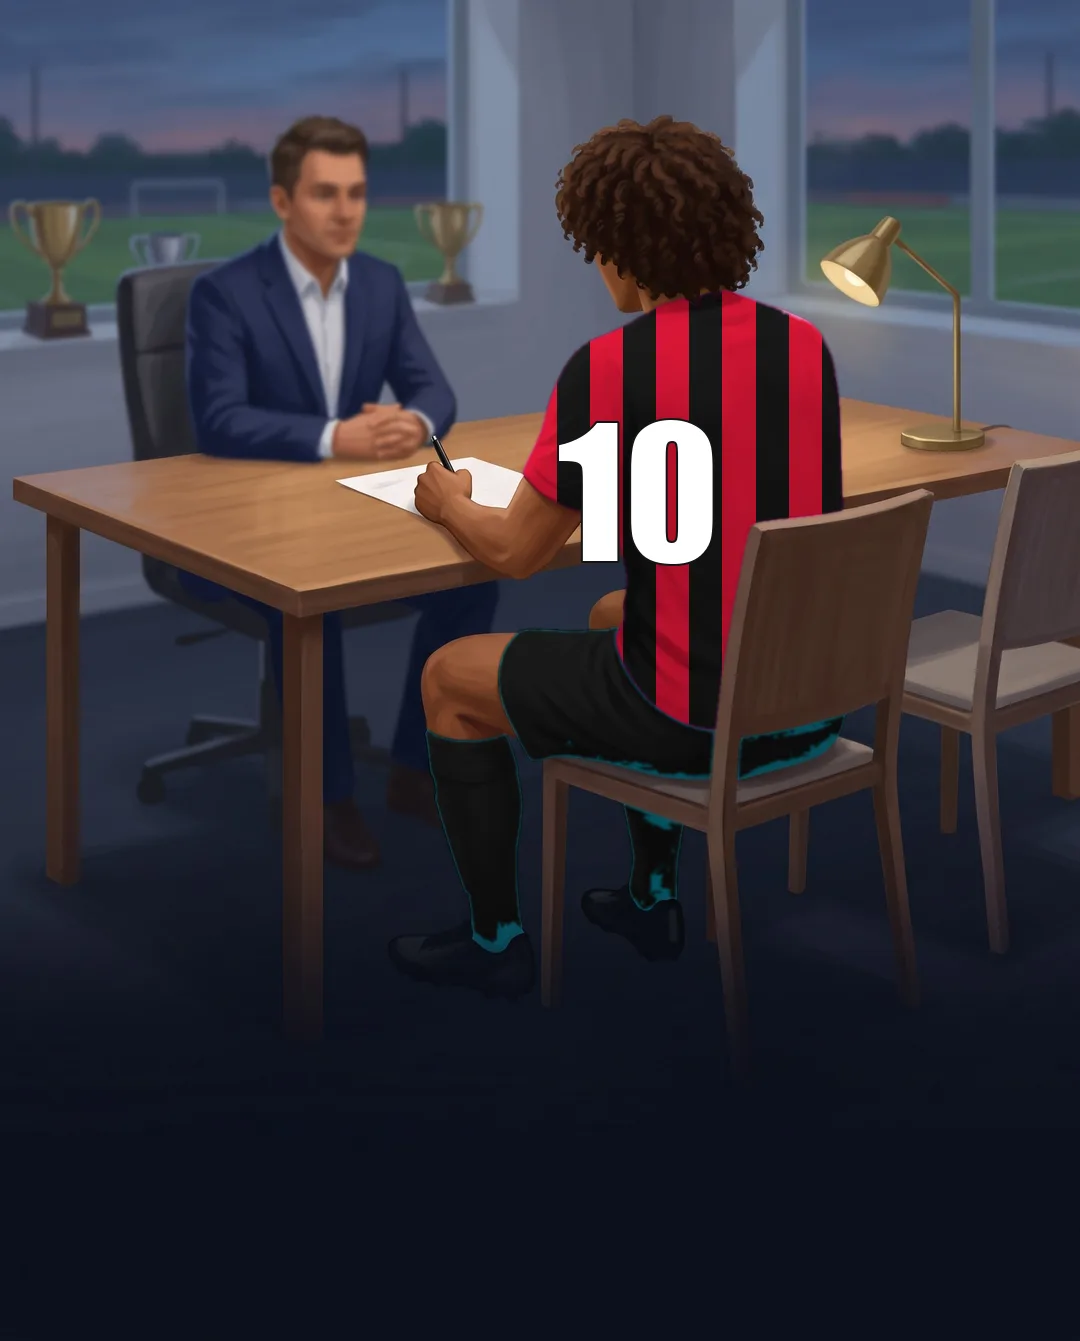
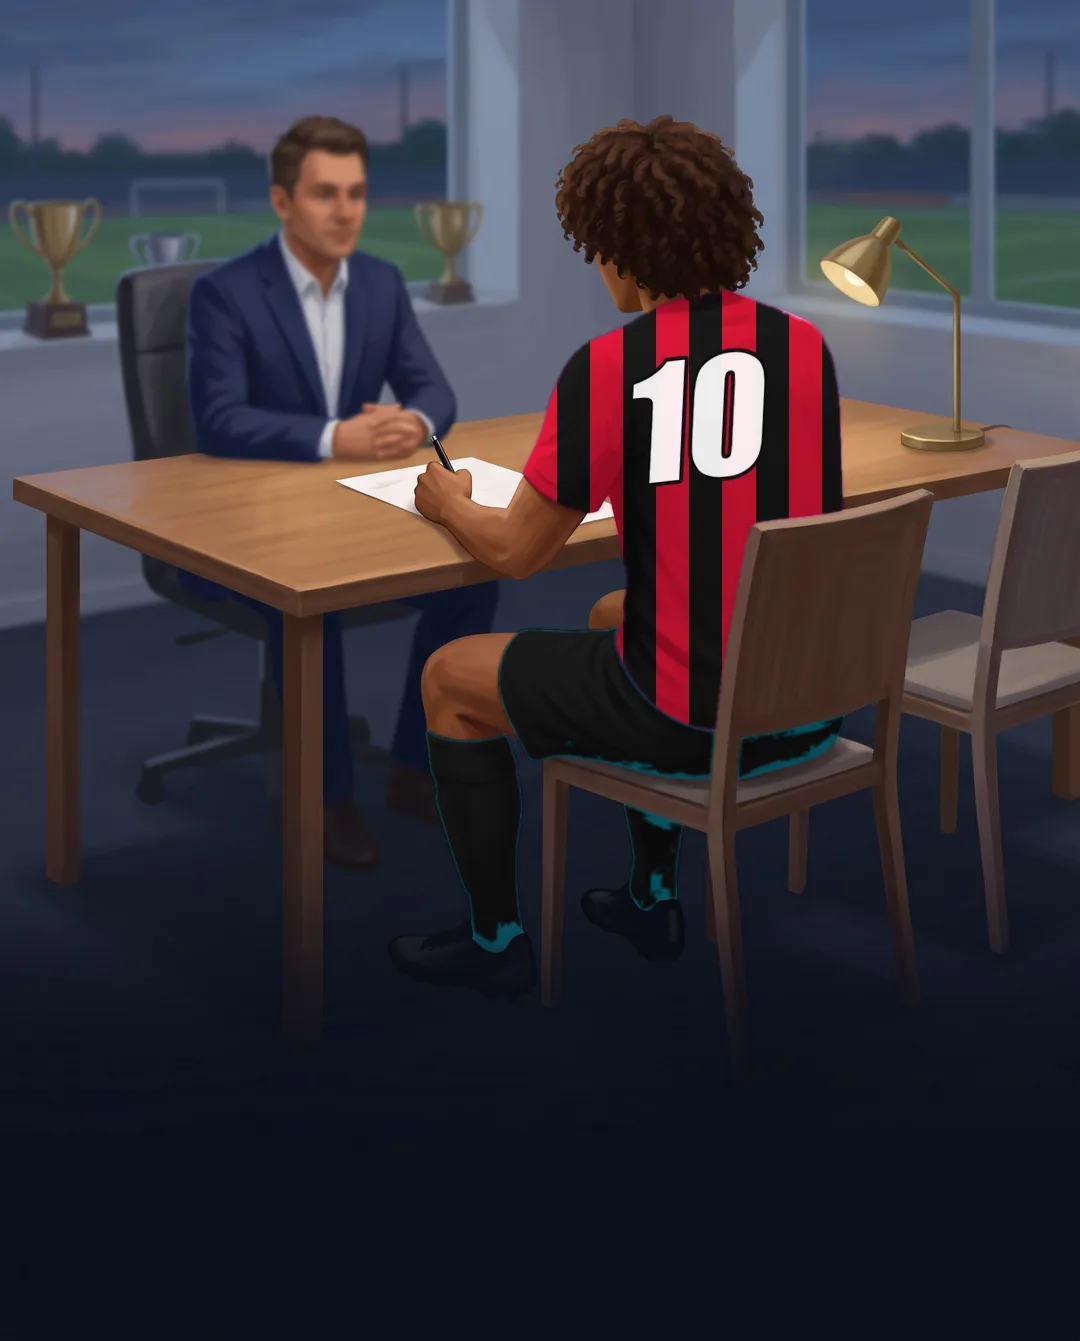
feat(T49): overall em número, mini troféus por título e número da camisa reposicionado
Terceira revisão do usuário (SPEC v2.16). O overall geral passa a aparecer
em número na tela de decisão, como exceção registrada à regra de não mostrar
números; os 10 atributos seguem em faixas e estrelas.

Changed region(s): [[0.5194, 0.2446, 0.7333, 0.428]]

diff --git a/src/ui/screens/Decision.tsx b/src/ui/screens/Decision.tsx
@@ -1,12 +1,12 @@
 import { useState } from 'react';
 import events from '../../data/events.json';
 import legacy from '../../data/legacy.json';
-import { toBand } from '../../engine/attributes';
 import { CLUBS } from '../../engine/clubs';
 import { temperamentsFor } from '../../engine/events';
 import { previewOf, type Preview } from '../../engine/preview';
 import { t } from '../../i18n';
 import creation from '../../i18n/pt-BR/creation.json';
+import tokens from '../theme/tokens.json';
 import './Decision.css';
 
 // T49 (amostra aprovada) e T51: uma decisão por tela, com a cena ao fundo. Só faixas e setas, nunca números de atributo.
@@ -16,7 +16,7 @@ export interface DecisionProps {
   /** Fração da carreira já vivida, de 0 a 1. */
   progress: number;
   scene: { src: string; alt: string };
-  /** Quem decide: o nível entra como número, mas só estrelas e faixa vão para a tela (SPEC: nenhum número de atributo antes do cartão). */
+  /** Quem decide. O overall aparece em número (SPEC v2.16); os atributos, um a um, seguem só em faixas e estrelas. */
   player: { name: string; position: string; clubId: string; overall: number; titles: string[] };
   /** Temperamento do jogador: a opção que combina com ele é marcada como "Seu jeito". */
   temperament?: string;
@@ -39,29 +39,15 @@ function Arrows({ sentido, intensidade }: Pick<Preview, 'sentido' | 'intensidade
   );
 }
 
-const STAR = 'M8 .8 10.2 5.6l5.2.6-3.9 3.6 1.1 5.2L8 12.4 3.4 15l1.1-5.2L.6 6.2l5.2-.6z';
 const TITLE_WEIGHT = legacy.titulos.pontos as Record<string, number>;
 const clubOf = (id: string) => CLUBS.find((c) => c.id === id);
+const metalOf = (id: string) => ((TITLE_WEIGHT[id] ?? 0) >= tokens.trofeu.ouroMin ? 'ouro' : (TITLE_WEIGHT[id] ?? 0) >= tokens.trofeu.prataMin ? 'prata' : 'bronze');
 
-/** Títulos agrupados por competição, da mais pesada para a mais leve: as três primeiras aparecem, o resto vira contagem. */
+/** Títulos agrupados por competição, da mais pesada para a mais leve. */
 function rankTitles(titles: string[]) {
   const counts: Record<string, number> = {};
   for (const id of titles) counts[id] = (counts[id] ?? 0) + 1;
-  const ranked = Object.entries(counts).sort((a, b) => (TITLE_WEIGHT[b[0]] ?? 0) - (TITLE_WEIGHT[a[0]] ?? 0));
-  return { shown: ranked.slice(0, 3), hidden: ranked.slice(3).reduce((n, [, c]) => n + c, 0) };
-}
-
-function Stars({ value, label }: { value: number; label: string }) {
-  return (
-    <span className="estrelas" role="img" aria-label={label}>
-      {[0, 1, 2, 3, 4].map((i) => (
-        <svg key={i} viewBox="0 0 16 16" width="16" height="16" focusable="false">
-          <path d={STAR} className="estrelas__vazia" />
-          <path d={STAR} className="estrelas__cheia" style={{ clipPath: `inset(0 ${100 - Math.min(1, Math.max(0, value - i)) * 100}% 0 0)` }} />
-        </svg>
-      ))}
-    </span>
-  );
+  return Object.entries(counts).sort((a, b) => (TITLE_WEIGHT[b[0]] ?? 0) - (TITLE_WEIGHT[a[0]] ?? 0));
 }
 
 /** Escudo estilizado: só as duas cores e a sigla do clube, nunca o escudo oficial (SPEC 11). */
@@ -78,22 +64,28 @@ function Crest({ clubId }: { clubId: string }) {
   );
 }
 
+/** Um mini troféu por competição vencida; o balão só aparece quando há mais de um título dela. */
 function Trophies({ titles }: { titles: string[] }) {
-  const { shown, hidden } = rankTitles(titles);
+  const ranked = rankTitles(titles);
+  if (!ranked.length) return null;
   return (
-    <p className="trofeus">
-      <svg viewBox="0 0 18 18" width="18" height="18" aria-hidden="true" focusable="false">
-        <path d="M5 2h8v5a4 4 0 0 1-8 0zM5 3.5H2.2V5A2.8 2.8 0 0 0 5 7.8M13 3.5h2.8V5A2.8 2.8 0 0 1 13 7.8M9 11v3M5.5 16h7" fill="none" stroke="currentColor" strokeWidth="1.6" strokeLinecap="square" />
-      </svg>
-      <strong>{titles.length === 0 ? t('ui.decisao.semTitulos') : titles.length === 1 ? t('ui.decisao.umTitulo') : t('ui.decisao.titulos', { n: titles.length })}</strong>
-      {shown.map(([id, n]) => <span key={id}>{n > 1 ? `${t(`ui.titulo.${id}`)} ×${n}` : t(`ui.titulo.${id}`)}</span>)}
-      {hidden > 0 && <span>{t('ui.decisao.maisTitulos', { n: hidden })}</span>}
-    </p>
+    <ul className="trofeus" aria-label={t('ui.decisao.titulosLista')}>
+      {ranked.map(([id, n]) => (
+        <li key={id} className={`trofeu trofeu--${metalOf(id)}`}>
+          <svg
+            viewBox="0 0 24 24" width="28" height="28" role="img" focusable="false"
+            aria-label={n > 1 ? t('ui.decisao.trofeuVarios', { titulo: t(`ui.titulo.${id}`), n }) : t('ui.decisao.trofeu', { titulo: t(`ui.titulo.${id}`) })}
+          >
+            <path d="M7 3h10v2h3.5v3.2A4.3 4.3 0 0 1 16.6 12 5.2 5.2 0 0 1 13 14.4V17h3v4H8v-4h3v-2.6A5.2 5.2 0 0 1 7.4 12 4.3 4.3 0 0 1 3.5 8.2V5H7zm0 4H5.5v1.2c0 .9.6 1.7 1.5 2zm10 0v3.2c.9-.3 1.5-1.1 1.5-2V7z" fill="currentColor" />
+          </svg>
+          {n > 1 && <span className="trofeu__vezes" aria-hidden="true">{n}</span>}
+        </li>
+      ))}
+    </ul>
   );
 }
 
 export function Decision({ eventId, age, progress, scene, player, temperament, onChoose }: DecisionProps) {
-  const band = toBand(player.overall);
   const club = clubOf(player.clubId);
   const [chosen, setChosen] = useState<string | null>(null);
   const options = events.eventos.find((e) => e.id === eventId)?.opcoes ?? [];
@@ -116,10 +108,10 @@ export function Decision({ eventId, age, progress, scene, player, temperament, o
             <p className="jogador__nome">{player.name}</p>
             <p className="jogador__clube">{t('ui.decisao.clubePosicao', { posicao: t(`positions.${player.position}`), clube: club?.nome ?? '' })}</p>
           </div>
-          <div className="jogador__nivel">
-            <Stars value={band.stars} label={t('ui.decisao.nivel', { faixa: t(`attributes.band.${band.key}`) })} />
-            <span aria-hidden="true">{t(`attributes.band.${band.key}`)}</span>
-          </div>
+          <p className="jogador__over">
+            <span className="jogador__over-rotulo">{t('ui.decisao.over')}</span>
+            <span className="jogador__over-numero">{player.overall}</span>
+          </p>
           <Trophies titles={player.titles} />
         </section>
         <header className="decisao__cabeca">

diff --git a/src/ui/screens/Decision.test.tsx b/src/ui/screens/Decision.test.tsx
@@ -46,27 +46,30 @@ describe('tela de decisão (T49: amostra; T51 completa)', () => {
     expect(bar).toHaveAttribute('aria-valuetext', t('ui.decisao.idade', { idade: 17 }));
   });
 
-  it('quem é o jogador: nome, posição, clube com escudo estilizado e nível em estrelas e faixa, sem o número', () => {
+  it('quem é o jogador: nome, posição, clube com escudo estilizado e o overall em número (SPEC v2.16)', () => {
     setup();
     const who = screen.getByRole('region', { name: t('ui.decisao.jogador') });
     expect(within(who).getByText('Dudu Maestro')).toBeInTheDocument();
     expect(within(who).getByText(new RegExp(`${t('positions.meia')}.*Flamengo`))).toBeInTheDocument();
     expect(within(who).getByRole('img', { name: t('ui.decisao.escudo', { clube: 'Flamengo' }) })).toBeInTheDocument();
-    expect(within(who).getByRole('img', { name: t('ui.decisao.nivel', { faixa: t('attributes.band.muitoBom') }) })).toBeInTheDocument();
-    expect(who.textContent).not.toMatch(/78/);
+    expect(within(who).getByText(t('ui.decisao.over'))).toBeInTheDocument();
+    expect(within(who).getByText('78')).toBeInTheDocument();
   });
 
-  it('resumo dos títulos conquistados até aqui, agrupados por competição', () => {
+  it('títulos: um mini troféu por competição, com balão de quantidade só quando ganhou mais de um', () => {
     setup();
-    const who = screen.getByRole('region', { name: t('ui.decisao.jogador') });
-    expect(within(who).getByText(t('ui.decisao.titulos', { n: 3 }))).toBeInTheDocument();
-    expect(within(who).getByText(`${t('ui.titulo.estadual')} ×2`)).toBeInTheDocument();
-    expect(within(who).getByText(t('ui.titulo.copaDoBrasil'))).toBeInTheDocument();
+    const list = screen.getByRole('list', { name: t('ui.decisao.titulosLista') });
+    expect(within(list).getAllByRole('listitem')).toHaveLength(2);
+    const state = within(list).getByRole('img', { name: t('ui.decisao.trofeuVarios', { titulo: t('ui.titulo.estadual'), n: 2 }) });
+    expect(state.parentElement).toHaveTextContent('2');
+    const cup = within(list).getByRole('img', { name: t('ui.decisao.trofeu', { titulo: t('ui.titulo.copaDoBrasil') }) });
+    expect(cup.parentElement).not.toHaveTextContent(/\d/);
+    expect(screen.queryByText(/títulos/)).not.toBeInTheDocument();
   });
 
-  it('sem título ainda: diz isso, em vez de sumir com a linha', () => {
+  it('sem título ainda: a lista de troféus não aparece', () => {
     render(<Decision eventId={EVENT} age={16} progress={0} player={{ ...PLAYER, titles: [] }} scene={{ src: 'c.webp', alt: 'cena' }} />);
-    expect(screen.getAllByText(t('ui.decisao.semTitulos')).length).toBeGreaterThan(0);
+    expect(screen.queryByRole('list', { name: t('ui.decisao.titulosLista') })).not.toBeInTheDocument();
   });
 
   it('uma decisão por tela: cada opção do evento é um botão com o texto do i18n', () => {

diff --git a/src/ui/screens/Decision.css b/src/ui/screens/Decision.css
@@ -65,23 +65,41 @@
   overflow-wrap: anywhere;
 }
 .jogador__clube { font-size: var(--tipo-apoio); line-height: 1.3; color: var(--cor-texto-suave); }
-.jogador__nivel { display: grid; justify-items: end; gap: 2px; font-size: var(--tipo-apoio); line-height: 1.2; color: var(--cor-texto-suave); }
-.estrelas { display: inline-flex; gap: 1px; }
-.estrelas__vazia { fill: var(--cor-trilho); }
-.estrelas__cheia { fill: var(--cor-estrela); }
+.jogador__over { display: grid; justify-items: end; font-family: var(--fonte-titulo); line-height: 1; }
+.jogador__over-rotulo { font-size: var(--tipo-apoio); font-weight: 700; letter-spacing: 0.14em; text-transform: uppercase; color: var(--cor-texto-suave); }
+.jogador__over-numero { font-size: var(--tipo-over); font-weight: 900; letter-spacing: -0.01em; font-variant-numeric: tabular-nums; }
 
 .trofeus {
   grid-column: 1 / -1;
   display: flex;
   flex-wrap: wrap;
-  align-items: center;
-  gap: var(--espaco-1) var(--espaco-3);
-  font-size: var(--tipo-apoio);
-  line-height: 1.3;
-  color: var(--cor-texto-suave);
+  gap: var(--espaco-2) var(--espaco-4);
+  margin: 0;
+  padding: 0;
+  list-style: none;
 }
-.trofeus svg { flex: none; color: var(--cor-estrela); }
-.trofeus strong { color: var(--cor-texto); }
+.trofeu { position: relative; display: grid; }
+.trofeu--ouro { color: var(--cor-ouro); }
+.trofeu--prata { color: var(--cor-prata); }
+.trofeu--bronze { color: var(--cor-bronze); }
+.trofeu__vezes {
+  position: absolute;
+  inset-block-start: -0.35rem;
+  inset-inline-end: -0.8rem;
+  min-inline-size: 1.4rem;
+  padding-inline: 0.3rem;
+  border-radius: 1rem;
+  /* balão translúcido: deixa ver o troféu por baixo sem perder a leitura do número */
+  background: color-mix(in srgb, var(--cor-fundo) 74%, transparent);
+  box-shadow: inset 0 0 0 1px var(--cor-linha);
+  color: var(--cor-texto);
+  font-family: var(--fonte-titulo);
+  font-size: var(--tipo-apoio);
+  font-weight: 800;
+  line-height: 1.4rem;
+  text-align: center;
+  font-variant-numeric: tabular-nums;
+}
 
 .decisao__cabeca {
   display: grid;

diff --git a/SPEC.md b/SPEC.md
@@ -1,6 +1,6 @@
 # 10eFaixa — Especificação do Produto (SPEC.md)
 
-> Versão 2.15 (tela de decisão com faixa do jogador e tema escuro em cinza neutro) · Status: **aprovado para implementação**. Todas as decisões de produto e design estão fechadas.
+> Versão 2.16 (overall em número na tela de decisão; mini troféus por título) · Status: **aprovado para implementação**. Todas as decisões de produto e design estão fechadas.
 > Este documento é a fonte da verdade para o Claude Code. Nenhuma mudança de escopo sem atualizar este arquivo primeiro.
 
 ---
@@ -429,7 +429,7 @@ Zoeira só com o próprio jogador (ex.: "o fanático que foi parar no rival"), n
 - Atributos entre 1 e 99, nunca acima do teto.
 - Mesma semente + mesmas decisões = carreira idêntica.
 - Idade entre 16 e 40; toda carreira termina com veredito válido.
-- Nenhum número de atributo aparece antes do cartão final.
+- Nenhum número dos 10 atributos aparece antes do cartão final. Exceção (v2.16): o **overall geral** aparece em número na tela de decisão.
 - Save → load devolve estado idêntico; save antigo migra ou falha com mensagem clara.
 - Nome bloqueado nunca chega ao cartão.
 - Nenhum texto de interface fora dos arquivos `i18n`.
@@ -737,5 +737,6 @@ Decisões aprovadas durante a implementação. Complementam as seções acima.
 | 2026-10-02 | T49 | Tokens visuais em `src/ui/theme/tokens.json` (paleta do SPEC, papéis por tema, tipo, espaço, toque), convertidos em variáveis CSS por `theme.ts`. Claro por padrão, escuro pela preferência do aparelho, e `data-tema="escuro"` nas telas com cena. Verde e vermelho ganham versões clareadas no tema escuro (`#63D7A0`, `#FF8E97`) e escurecidas no claro (`#18683F`, `#B81E2E`) para passar em contraste; o amarelo fica só na faixa de progresso e na opção escolhida. Todo par de cor usado em tela é conferido por teste (4,5:1 texto; 3:1 gráfico). Fontes hospedadas no próprio site (sem chamada a servidor de terceiros): Big Shoulders Display e Atkinson Hyperlegible, ambas com licença OFL-1.1 | Pacotes `@fontsource-variable/big-shoulders-display` 5.3.0 e `@fontsource/atkinson-hyperlegible` 5.3.0 (https://fontsource.org/docs/getting-started/install). Registro de produto para o design em `PRODUCT.md`; direção da tela em `.impeccable/surfaces/` |
 | 2026-10-02 | T49 | **Tela de decisão (amostra):** estrutura "Número gigante" escolhida pelo usuário: cena no topo, faixa amarela de progresso, idade em número gigante, título e história, e as opções como faixas de largura inteira com a prévia em setas. A opção escolhida vira a braçadeira amarela. Pedido do usuário na revisão: cena menor, mais espaço para a história, e cada opção mostra o temperamento a que remete ("Jeito: Líder"), marcando o do próprio jogador ("Seu jeito"). Hoje o rótulo sai da política automática de cada evento (`temperamentsFor`) | **Em aberto, mudança de escopo a decidir:** o usuário quer 3 opções em todo evento, cada uma ligada a um perfil. O catálogo atual tem 17 eventos com 2 opções, 4 com 1 e 4 com 3; falta definir qual perfil (temperamento ou mentalidade, ambos com 4 valores) e como 4 perfis viram 3 opções. Em celular de 360×640, três opções com história longa pedem rolagem |
 | 2026-10-02 | T49 (v2.15) | **Segunda revisão do usuário ("muito impessoal"):** a tela de decisão ganha uma faixa do jogador com escudo estilizado (cores e sigla do clube), nome, posição, clube, **nível geral em estrelas e faixa** e o **resumo dos títulos** conquistados até ali (total e as três competições de maior peso). O tema escuro das telas com cena passa de marinho para **cinza neutro** (`#1F2227`), para o painel não disputar com as cores dos clubes; o marinho segue como cor de texto no tema claro e na abertura | O nível geral aparece só em estrelas e faixa ("Muito bom"), nunca em número: a regra "nenhum número de atributo antes do cartão final" continua valendo. Se o usuário quiser o número do overall na tela, é mudança dessa regra e precisa ser decidida |
+| 2026-10-02 | T49 (v2.16) | **Terceira revisão do usuário.** (1) **Overall em número** na faixa do jogador ("Over 78"), no lugar das estrelas, que ele achou fracas. É exceção à regra de não mostrar números: vale só para o overall geral; os 10 atributos seguem em faixas e estrelas até o cartão final. (2) **Títulos como mini troféus**, um por competição vencida, com balão translúcido de quantidade quando há mais de um; sai o texto "3 títulos". (3) Número da camisa reposicionado na cena de amostra | Regra alterada também no CLAUDE.md e no PRODUCT.md. Os mini troféus são um ícone único tingido por metal (ouro, prata, bronze, pelo peso do título em legacy.json), provisório até a arte dos 18 troféus do lote 5. O overall sobe e desce a cada semestre: a T51 precisa mostrar a variação |
 | 2026-09-30 | T14 | Sedes reais conferidas: Copa 2026 (EUA, Canadá, México), 2030 (Marrocos, Portugal, Espanha + centenário), 2034 (Arábia Saudita) — FIFA; Olimpíadas 2028 LA, 2032 Brisbane — COI. Demais sedes sorteadas por semente | Fontes e data em src/data/calendar.json |
 | 2026-09-30 | T14 | **Não verificado:** a CONMEBOL não anunciou a próxima Copa América masculina; ciclo assumido a cada 4 anos a partir de 2028 ("entre as Copas", 6.11). Sedes futuras repetem as 5 últimas reais em ordem (2015 Chile, 2016 EUA, 2019 Brasil, 2021 Brasil, 2024 EUA), decisão do usuário. Janelas de transferência modeladas por momento do semestre; datas exatas a conferir na T28 | Marcado `verificado: false` no JSON; revisar quando houver anúncio oficial |

diff --git a/CLAUDE.md b/CLAUDE.md
@@ -47,7 +47,7 @@ Pare e peça minha aprovação nos pontos da seção 15 do SPEC: após T13, T40,
 
 ## Regras que nunca podem ser quebradas
 - **Aparência** (tom de pele, cabelo, barba, acessórios) **nunca** altera atributos ou eventos. Só altura e compleição afetam o jogo.
-- **Nenhum número de atributo** aparece ao jogador antes do cartão final (só estrelas e faixas).
+- **Nenhum número dos 10 atributos** aparece ao jogador antes do cartão final (só estrelas e faixas). A única exceção é o **overall geral**, mostrado em número na tela de decisão (SPEC v2.16, decisão do usuário).
 - **Sem escudos oficiais** de clubes nem da CBF; usar escudos estilizados (cores e iniciais).
 - **Lendas reais** só como texto descritivo no campo `inspiracao`, controlado pela flag `inspiracaoLendas`. Nunca imagem, rosto ou visual característico de pessoa real.
 - **Todos os atletas da carreira são fictícios.** Nome e apelido passam pelo filtro de palavras bloqueadas.

diff --git a/PRODUCT.md b/PRODUCT.md
@@ -37,7 +37,7 @@ Um simulador de carreira rápido e compartilhável na língua do torcedor brasil
 - Stack: Vite 8, React 19, TypeScript estrito, Vitest 5. Hospedagem na Vercel, como PWA.
 - Motor puro e determinístico em `src/engine`; a interface só lê o estado.
 - Todo texto visível ao jogador fica em `src/i18n/pt-BR`, nunca no código.
-- Nenhum número de atributo aparece antes do cartão final: só estrelas e faixas.
+- Nenhum número dos atributos aparece antes do cartão final: só estrelas e faixas. A exceção é o overall geral, que aparece em número na tela de decisão.
 - Fora da v1: anúncios, contas, ranking online, app nativo, partidas lance a lance, outros idiomas.
 
 ## Brand Commitments
